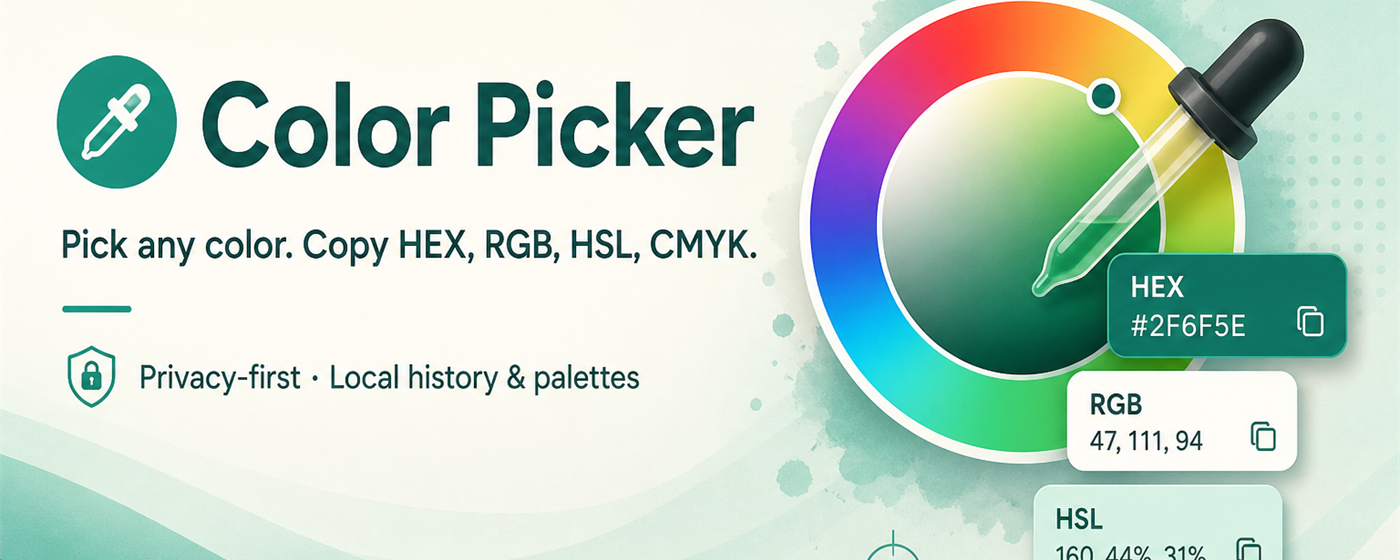
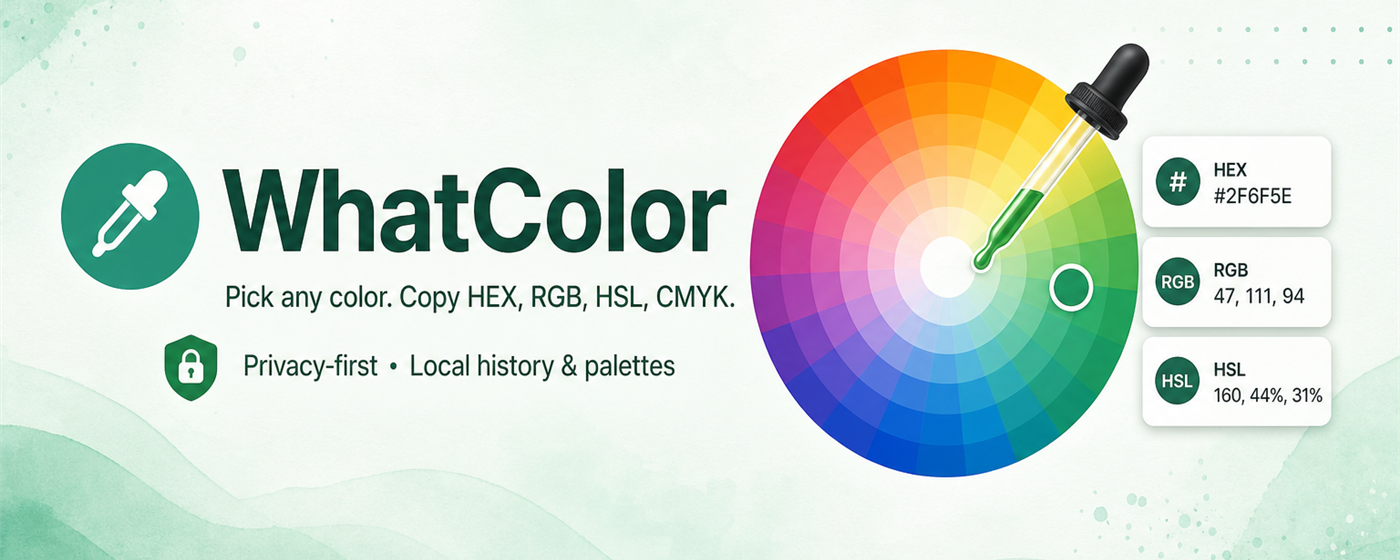
Rename project to "WhatColor" and update descriptions across files
- Changed project name from "Color Picker" to "WhatColor" in package.json, README, and various manifest files.
- Updated descriptions to better reflect the tool's functionality and appeal to designers.
- Adjusted titles in HTML templates and UI components to maintain consistency with the new branding.

diff --git a/store/privacy-policy.html b/store/privacy-policy.html
@@ -3,7 +3,7 @@
   <head>
     <meta charset="utf-8" />
     <meta name="viewport" content="width=device-width, initial-scale=1" />
-    <title>Privacy Policy — Color Picker HEX | Eyedropper</title>
+    <title>Privacy Policy — WhatColor - Color Picker & Eyedropper</title>
     <style>
       :root {
         --ink: #18332b;
@@ -71,12 +71,12 @@
       <div class="card">
         <h1>Privacy Policy</h1>
         <p class="meta">
-          Color Picker HEX | Eyedropper<br />
+          WhatColor - Color Picker & Eyedropper<br />
           Last updated: August 10, 2026
         </p>
 
         <p>
-          Color Picker HEX | Eyedropper (“the Extension”) is a privacy-first browser
+          WhatColor - Color Picker & Eyedropper (“the Extension”) is a privacy-first browser
           extension for picking colors, converting formats, and saving local history and
           palettes.
         </p>
@@ -150,7 +150,7 @@
         <h2>Contact</h2>
         <p>
           Questions about this policy can be sent through the support contact listed on the
-          Chrome Web Store listing for Color Picker HEX | Eyedropper.
+          Chrome Web Store listing for WhatColor - Color Picker & Eyedropper.
         </p>
       </div>
     </main>

diff --git a/src/options/options.jsx b/src/options/options.jsx
@@ -59,7 +59,7 @@ const App = () => {
       <header className="header">
         <img src="icons/icon-128.png" alt="" width={48} height={48} />
         <div>
-          <h1>Color Picker</h1>
+          <h1>WhatColor</h1>
           <p>Settings stay on this device. Nothing is sent to a server.</p>
         </div>
       </header>
@@ -128,7 +128,7 @@ const App = () => {
       <section className="section privacy">
         <h2>Privacy</h2>
         <p>
-          Color Picker does not collect, store, or transmit personal data. Picked colors
+          WhatColor does not collect, store, or transmit personal data. Picked colors
           never leave your browser. Works in Chrome, Edge, Firefox, Brave, Opera, and Safari
           (as a Web Extension).
         </p>

diff --git a/webpack.common.js b/webpack.common.js
@@ -73,7 +73,7 @@ module.exports = {
 
 function getHtmlPlugins(chunks) {
   return chunks.map(chunk => new HtmlPlugin({
-    title: 'Color Picker',
+    title: 'WhatColor - Color Picker & Eyedropper',
     filename: `${chunk}.html`,
     chunks: [chunk],
   }))

diff --git a/src/popup/popup.jsx b/src/popup/popup.jsx
@@ -157,7 +157,7 @@ const App = () => {
   return (
     <div className="app">
       <header className="brand">
-        <h1>Color Picker</h1>
+        <h1>WhatColor</h1>
         <span>HEX · Eyedropper</span>
       </header>
 

diff --git a/store/LISTING.md b/store/LISTING.md
@@ -5,10 +5,10 @@ Use these fields in the [Chrome Web Store Developer Dashboard](https://chrome.go
 ## Product details
 
 **Name**  
-Color Picker HEX | Eyedropper
+WhatColor - Color Picker & Eyedropper
 
 **Summary** (short description, keep under ~132 characters)  
-Pick colors from any webpage or image. Convert HEX, RGB, HSL, and CMYK. Save history and palettes locally.
+The fastest color picker and eyedropper tool for all designers. Instantly identify and copy HEX, RGB, and HSL color codes on any webpage.
 
 **Category**  
 Developer Tools  
@@ -20,7 +20,7 @@ English
 ## Detailed description
 
 ```text
-Color Picker HEX | Eyedropper is a fast, privacy-first color tool for designers and developers.
+WhatColor - Color Picker & Eyedropper is a fast, privacy-first color tool for designers and developers.
 
 Pick any on-screen color with the native eyedropper, convert between HEX, RGB, HSL, and CMYK, and copy the format you need in one click. Save recent colors and named palettes locally — nothing is sent to a server.
 

diff --git a/README.md b/README.md
@@ -1,4 +1,4 @@
-# Color Picker HEX | Eyedropper
+# WhatColor - Color Picker & Eyedropper
 
 Privacy-first Chrome extension to pick colors from any screen or uploaded image, convert HEX / RGB / HSL / CMYK, copy in one click, and save history plus named palettes locally.
 
